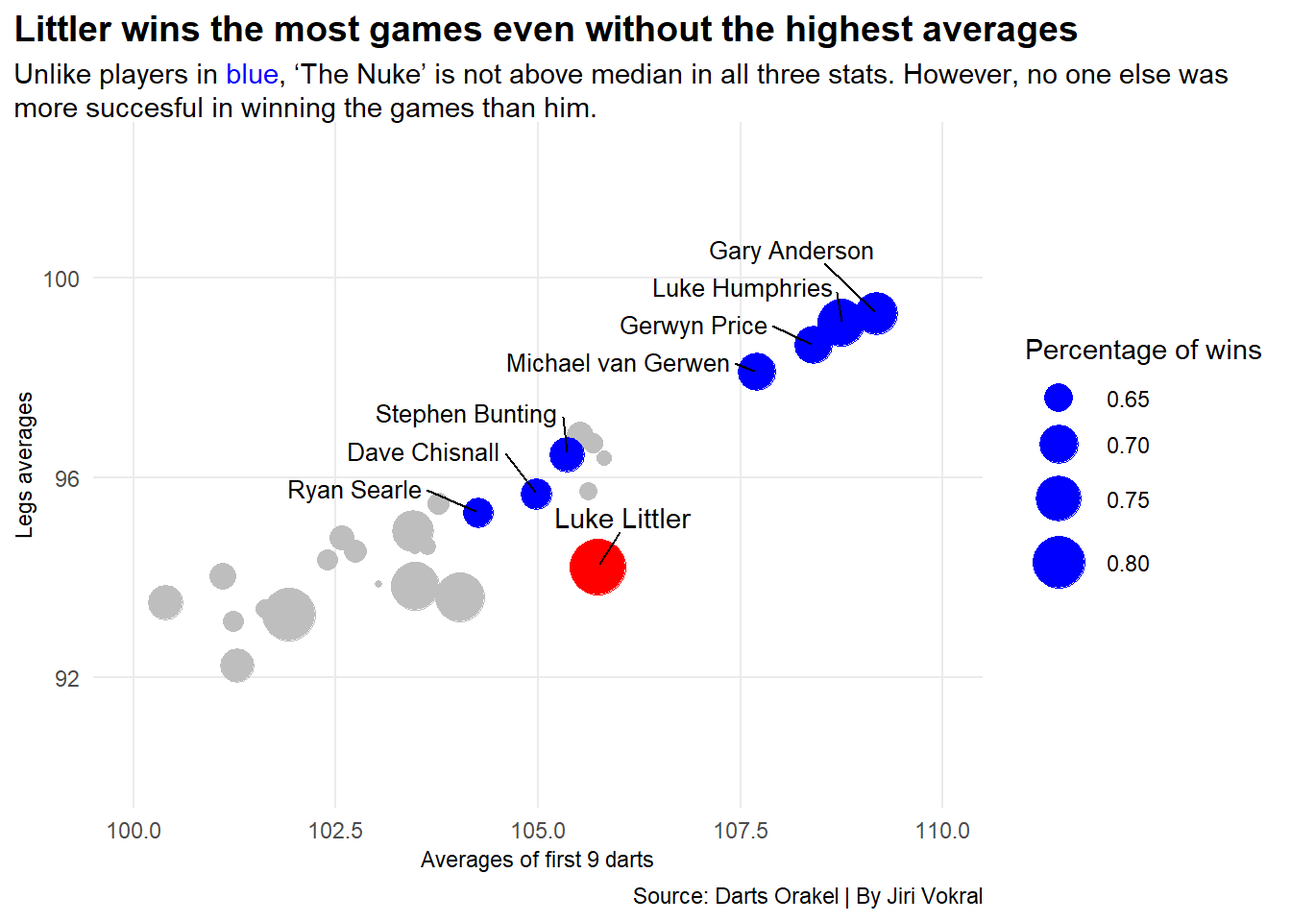
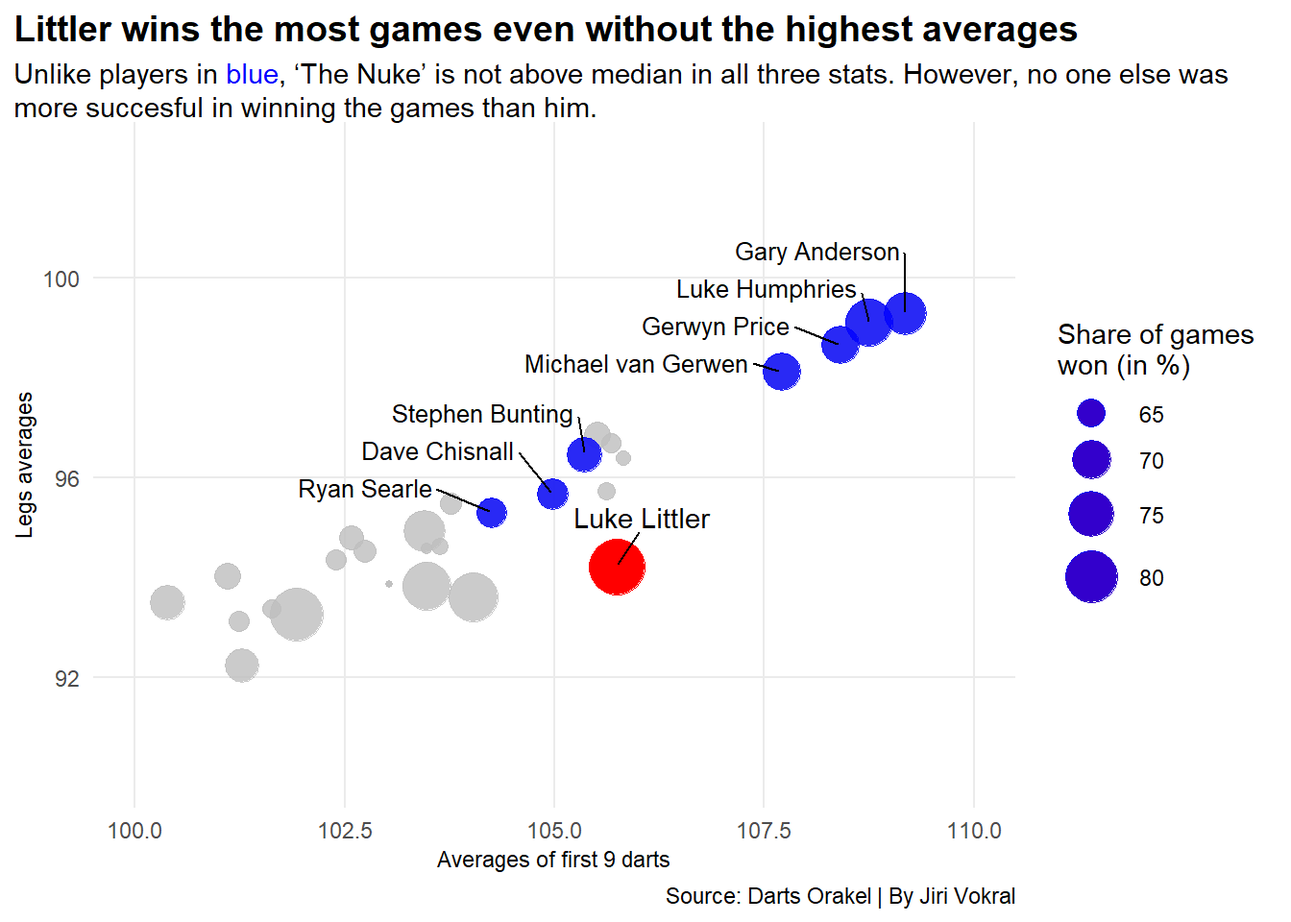
Update commit #2

diff --git a/posts/luke-littler-darts/index.html b/posts/luke-littler-darts/index.html
@@ -9,7 +9,7 @@
 <meta name="author" content="Jiri Vokral">
 <meta name="dcterms.date" content="2024-04-14">
 
-<title>Jiri Vokral’ sports data site - Luke Littler</title>
+<title>Jiri Vokral’ sports data site - Is Luke Littler the best player in the world of darts at the moment?</title>
 <style>
 code{white-space: pre-wrap;}
 span.smallcaps{font-variant: small-caps;}
@@ -149,7 +149,7 @@ pre > code.sourceCode > span > a:first-child::before { text-decoration: underlin
 <header id="title-block-header" class="quarto-title-block default page-columns page-full">
   <div class="quarto-title-banner page-columns page-full">
     <div class="quarto-title column-body">
-      <h1 class="title">Luke Littler</h1>
+      <h1 class="title">Is Luke Littler the best player in the world of darts at the moment?</h1>
                       </div>
   </div>
     
@@ -187,14 +187,7 @@ pre > code.sourceCode > span > a:first-child::before { text-decoration: underlin
 
 <p>“Triple twenty will leave him double ten. And he finishes it on double ten! Luke Littler by name, but right now arguably the biggest name in the world of darts. Littler takes the giant step into the World Championship final. He made it nineteen days shy of his 17th birthday, and tomorrow he could be the World Darts Champion!”</p>
 <p>At the turn of last year and this year, the entire darts world learned to count on a new rising star. Luke Littler made it to the World Championship final at the age of 16. He had to go through all the rounds to reach the final as he was not seeded due to his position in the world rankings.</p>
-<p>The youngster with “The Nuke” sent one opponent after another home. When he faced the legendary Raymond van Barneveld in the round of sixteen, the pundits didn’t give Littler much of a chance. But they were wrong. Littler defeated the former world number one and world champion 4:1.</p>
-<p>Brendan Dolan could also only win one set against Littler in the quarterfinals. The 16-year-old sensation made it to the semi-finals of the world’s most prestigious darts tournament. The opponent? World No.&nbsp;8 and former world champion Rob Cross. But even he couldn’t bring himself to send Littler home.</p>
-<p>The Nuke” led 4-2 in the final. He became the darling of the fans, who chanted, “You’ve got school in the morning, school in the morning!”</p>
-<p>But in the end, Luke Humpries turned the dramatic finale around and became the world champion and world No.1. But Littler’s performance earned him an invitation to Premier League Darts, a select company of the best darts players who would meet in fifteen tournaments throughout the spring.</p>
-<p>In eleven tournaments so far, he has reached the finals three times and won twice. As a result, Littler currently leads the overall standings in the highly prestigious Premier League.</p>
-<p>Is The Nuke the best player in the world right now?</p>
-<p>“No.&nbsp;No way,” Littler said when journalists asked him that question earlier this year. “You still got Luke Humphries in there, you still got Michael van Gerwen in there. I’m one of the best right now in terms of performance, but I’m not the best in the world,” he added.</p>
-<p>Let’s take a look at the data from the end of March 2023 to the end of March 2024.</p>
+<p>Truth be told, he was already good before the World Championship. And he continues to be in great form. Let’s take a look at the data from the end of March 2023 to the end of March 2024.</p>
 <div class="cell">
 <details class="code-fold">
 <summary>Code</summary>
@@ -254,7 +247,15 @@ pre > code.sourceCode > span > a:first-child::before { text-decoration: underlin
 </div>
 </div>
 <p>Out of the 112 best players in the world, Littler has the highest success rate in the legs where he throws first. He won more than 77 percent of those legs. That’s five percentage points more than world No.&nbsp;1 Humrpies or six more than three-time world champion and world No.&nbsp;2 Michael van Gerwen. On the occasions when he has gone to the dartboard second, his success rate has dropped to 52.67 percent. But that is the second-best result of all.</p>
-<p>And that’s not all. Littler also had the highest winning percentage for the year. He played a total of 398 games (by far the most of all players, the second-highest result is 279), of which he won 333. This means that he won more than 83 percent of the time.</p>
+<p>The youngster with nickname “The Nuke” sent one opponent after another home at the World Championship. When he faced the legendary Raymond van Barneveld in the round of sixteen, the pundits didn’t give Littler much of a chance. But they were wrong. Littler defeated the former world number one and world champion 4:1.</p>
+<p>Brendan Dolan could also only win one set against Littler in the quarterfinals. The 16-year-old sensation made it to the semi-finals of the world’s most prestigious darts tournament. The opponent? World No.&nbsp;8 and former world champion Rob Cross. But even he couldn’t bring himself to send Littler home.</p>
+<p>The Nuke” led 4-2 in the final. He became the darling of the fans, who chanted, “You’ve got school in the morning, school in the morning!”</p>
+<p>But in the end, Luke Humpries turned the dramatic finale around and became the world champion and world No.1. But Littler’s performance earned him an invitation to Premier League Darts, a select company of the best darts players who would meet in fifteen tournaments throughout the spring.</p>
+<p>In eleven tournaments so far, he has reached the finals three times and won twice. As a result, Littler currently leads the overall standings in the highly prestigious Premier League.</p>
+<p>Is The Nuke the best player in the world right now?</p>
+<p>“No.&nbsp;No way,” Littler said when journalists asked him that question earlier this year. “You still got Luke Humphries in there, you still got Michael van Gerwen in there. I’m one of the best right now in terms of performance, but I’m not the best in the world,” he added.</p>
+<p>Well.</p>
+<p>Littler had the highest winning percentage during whole year. He played a total of 398 games (by far the most of all players, the second-highest result is 339), of which he won 333. This means that he won more than 83 percent of the time.</p>
 <div class="cell">
 <details class="code-fold">
 <summary>Code</summary>
@@ -262,12 +263,12 @@ pre > code.sourceCode > span > a:first-child::before { text-decoration: underlin
 <span id="cb2-2"><a href="#cb2-2" aria-hidden="true" tabindex="-1"></a></span>
 <span id="cb2-3"><a href="#cb2-3" aria-hidden="true" tabindex="-1"></a>new_bubble <span class="ot">&lt;-</span> bubble [<span class="sc">-</span><span class="dv">56</span>,]<span class="sc">|&gt;</span></span>
 <span id="cb2-4"><a href="#cb2-4" aria-hidden="true" tabindex="-1"></a>  <span class="fu">mutate</span>(</span>
-<span id="cb2-5"><a href="#cb2-5" aria-hidden="true" tabindex="-1"></a>    <span class="at">Win_Pct =</span> Won<span class="sc">/</span>Played</span>
+<span id="cb2-5"><a href="#cb2-5" aria-hidden="true" tabindex="-1"></a>    <span class="at">Win_Pct =</span> (Won<span class="sc">/</span>Played)<span class="sc">*</span><span class="dv">100</span></span>
 <span id="cb2-6"><a href="#cb2-6" aria-hidden="true" tabindex="-1"></a>  ) <span class="sc">|&gt;</span></span>
 <span id="cb2-7"><a href="#cb2-7" aria-hidden="true" tabindex="-1"></a>  <span class="fu">filter</span>(</span>
 <span id="cb2-8"><a href="#cb2-8" aria-hidden="true" tabindex="-1"></a>    AVG <span class="sc">&gt;</span> <span class="dv">92</span>,</span>
-<span id="cb2-9"><a href="#cb2-9" aria-hidden="true" tabindex="-1"></a>    Win_Pct <span class="sc">&gt;</span> <span class="fl">0.60</span></span>
-<span id="cb2-10"><a href="#cb2-10" aria-hidden="true" tabindex="-1"></a>  )</span>
+<span id="cb2-9"><a href="#cb2-9" aria-hidden="true" tabindex="-1"></a>    Win_Pct <span class="sc">&gt;</span> <span class="dv">60</span></span>
+<span id="cb2-10"><a href="#cb2-10" aria-hidden="true" tabindex="-1"></a>  ) </span>
 <span id="cb2-11"><a href="#cb2-11" aria-hidden="true" tabindex="-1"></a></span>
 <span id="cb2-12"><a href="#cb2-12" aria-hidden="true" tabindex="-1"></a>luke_littler <span class="ot">&lt;-</span> new_bubble <span class="sc">|&gt;</span></span>
 <span id="cb2-13"><a href="#cb2-13" aria-hidden="true" tabindex="-1"></a>  <span class="fu">filter</span>(</span>
@@ -284,47 +285,49 @@ pre > code.sourceCode > span > a:first-child::before { text-decoration: underlin
 <span id="cb2-24"><a href="#cb2-24" aria-hidden="true" tabindex="-1"></a>  <span class="fu">filter</span>(</span>
 <span id="cb2-25"><a href="#cb2-25" aria-hidden="true" tabindex="-1"></a>    AVG <span class="sc">&gt;</span> <span class="fl">94.695</span> <span class="sc">&amp;</span></span>
 <span id="cb2-26"><a href="#cb2-26" aria-hidden="true" tabindex="-1"></a>      First_9_averages <span class="sc">&gt;</span> <span class="fl">103.7</span> <span class="sc">&amp;</span></span>
-<span id="cb2-27"><a href="#cb2-27" aria-hidden="true" tabindex="-1"></a>      Win_Pct <span class="sc">&gt;</span> <span class="fl">0.6413996</span>   </span>
+<span id="cb2-27"><a href="#cb2-27" aria-hidden="true" tabindex="-1"></a>      Win_Pct <span class="sc">&gt;</span> <span class="fl">64.22764</span>    </span>
 <span id="cb2-28"><a href="#cb2-28" aria-hidden="true" tabindex="-1"></a>  )</span>
 <span id="cb2-29"><a href="#cb2-29" aria-hidden="true" tabindex="-1"></a></span>
 <span id="cb2-30"><a href="#cb2-30" aria-hidden="true" tabindex="-1"></a><span class="fu">ggplot</span>() <span class="sc">+</span> </span>
 <span id="cb2-31"><a href="#cb2-31" aria-hidden="true" tabindex="-1"></a>  <span class="fu">geom_point</span>(</span>
 <span id="cb2-32"><a href="#cb2-32" aria-hidden="true" tabindex="-1"></a>    <span class="at">data=</span>new_bubble, </span>
 <span id="cb2-33"><a href="#cb2-33" aria-hidden="true" tabindex="-1"></a>    <span class="fu">aes</span>(<span class="at">x=</span>First_9_averages, <span class="at">y=</span>AVG, <span class="at">size=</span> Win_Pct),</span>
-<span id="cb2-34"><a href="#cb2-34" aria-hidden="true" tabindex="-1"></a>    <span class="at">color =</span> <span class="st">"grey"</span></span>
-<span id="cb2-35"><a href="#cb2-35" aria-hidden="true" tabindex="-1"></a>    ) <span class="sc">+</span></span>
-<span id="cb2-36"><a href="#cb2-36" aria-hidden="true" tabindex="-1"></a>  <span class="fu">geom_point</span>(</span>
-<span id="cb2-37"><a href="#cb2-37" aria-hidden="true" tabindex="-1"></a>    <span class="at">data=</span>luke_littler, </span>
-<span id="cb2-38"><a href="#cb2-38" aria-hidden="true" tabindex="-1"></a>    <span class="fu">aes</span>(<span class="at">x=</span>First_9_averages, <span class="at">y=</span>AVG, <span class="at">size=</span> Win_Pct),</span>
-<span id="cb2-39"><a href="#cb2-39" aria-hidden="true" tabindex="-1"></a>    <span class="at">color =</span> <span class="st">"red"</span></span>
-<span id="cb2-40"><a href="#cb2-40" aria-hidden="true" tabindex="-1"></a>    ) <span class="sc">+</span></span>
-<span id="cb2-41"><a href="#cb2-41" aria-hidden="true" tabindex="-1"></a>  <span class="fu">geom_point</span>(</span>
-<span id="cb2-42"><a href="#cb2-42" aria-hidden="true" tabindex="-1"></a>    <span class="at">data=</span>bubble_top2, </span>
-<span id="cb2-43"><a href="#cb2-43" aria-hidden="true" tabindex="-1"></a>    <span class="fu">aes</span>(<span class="at">x=</span>First_9_averages, <span class="at">y=</span>AVG, <span class="at">size=</span> Win_Pct),</span>
-<span id="cb2-44"><a href="#cb2-44" aria-hidden="true" tabindex="-1"></a>    <span class="at">color =</span> <span class="st">"blue"</span></span>
-<span id="cb2-45"><a href="#cb2-45" aria-hidden="true" tabindex="-1"></a>    ) <span class="sc">+</span></span>
-<span id="cb2-46"><a href="#cb2-46" aria-hidden="true" tabindex="-1"></a>  <span class="fu">scale_x_continuous</span>(<span class="at">limits =</span> <span class="fu">c</span>(<span class="dv">100</span>,<span class="dv">110</span>)) <span class="sc">+</span></span>
-<span id="cb2-47"><a href="#cb2-47" aria-hidden="true" tabindex="-1"></a>  <span class="fu">scale_y_continuous</span>(<span class="at">limits =</span><span class="fu">c</span>(<span class="dv">90</span>,<span class="fl">102.5</span>)) <span class="sc">+</span></span>
-<span id="cb2-48"><a href="#cb2-48" aria-hidden="true" tabindex="-1"></a>  <span class="fu">scale_size_continuous</span>(<span class="at">range =</span> <span class="fu">c</span>(<span class="dv">1</span>,<span class="dv">10</span>), <span class="at">name =</span> <span class="st">"Percentage of wins"</span>) <span class="sc">+</span></span>
-<span id="cb2-49"><a href="#cb2-49" aria-hidden="true" tabindex="-1"></a>  <span class="fu">geom_text_repel</span>(</span>
-<span id="cb2-50"><a href="#cb2-50" aria-hidden="true" tabindex="-1"></a>    <span class="at">data=</span>luke_littler, </span>
-<span id="cb2-51"><a href="#cb2-51" aria-hidden="true" tabindex="-1"></a>    <span class="fu">aes</span>(<span class="at">x=</span>First_9_averages, <span class="at">y=</span>AVG, <span class="at">label=</span>Player), <span class="at">nudge_y =</span> <span class="dv">1</span>, <span class="at">nudge_x =</span> .<span class="dv">3</span>) <span class="sc">+</span></span>
-<span id="cb2-52"><a href="#cb2-52" aria-hidden="true" tabindex="-1"></a>  <span class="fu">geom_text_repel</span>(</span>
-<span id="cb2-53"><a href="#cb2-53" aria-hidden="true" tabindex="-1"></a>    <span class="at">data=</span>bubble_top2, </span>
-<span id="cb2-54"><a href="#cb2-54" aria-hidden="true" tabindex="-1"></a>    <span class="fu">aes</span>(<span class="at">x=</span>First_9_averages, <span class="at">y=</span>AVG, <span class="at">label=</span>Player), <span class="at">nudge_y =</span> .<span class="dv">72</span>, <span class="at">nudge_x =</span> <span class="sc">-</span><span class="fl">1.4</span>, <span class="at">size=</span><span class="fl">3.4</span>) <span class="sc">+</span></span>
-<span id="cb2-55"><a href="#cb2-55" aria-hidden="true" tabindex="-1"></a>  <span class="fu">theme_minimal</span>() <span class="sc">+</span></span>
-<span id="cb2-56"><a href="#cb2-56" aria-hidden="true" tabindex="-1"></a>   <span class="fu">labs</span>(</span>
-<span id="cb2-57"><a href="#cb2-57" aria-hidden="true" tabindex="-1"></a>    <span class="at">title=</span><span class="st">"Littler wins the most games even without the highest averages"</span>, </span>
-<span id="cb2-58"><a href="#cb2-58" aria-hidden="true" tabindex="-1"></a>    <span class="at">subtitle =</span> <span class="st">"Unlike players in &lt;span style = 'color:blue;'&gt;blue&lt;/span&gt;, 'The Nuke' is not above median in all three stats. However, no one else was more succesful in winning the games than him."</span>,</span>
-<span id="cb2-59"><a href="#cb2-59" aria-hidden="true" tabindex="-1"></a>    <span class="at">y=</span> <span class="st">"Legs averages"</span>, <span class="at">x =</span> <span class="st">"Averages of first 9 darts"</span>, <span class="at">caption=</span><span class="st">"Source: Darts Orakel | By Jiri Vokral"</span></span>
-<span id="cb2-60"><a href="#cb2-60" aria-hidden="true" tabindex="-1"></a>  ) <span class="sc">+</span> </span>
-<span id="cb2-61"><a href="#cb2-61" aria-hidden="true" tabindex="-1"></a>  <span class="fu">theme</span>(</span>
-<span id="cb2-62"><a href="#cb2-62" aria-hidden="true" tabindex="-1"></a>    <span class="at">plot.title =</span> <span class="fu">element_text</span>(<span class="at">size =</span> <span class="dv">14</span>, <span class="at">face =</span> <span class="st">"bold"</span>),</span>
-<span id="cb2-63"><a href="#cb2-63" aria-hidden="true" tabindex="-1"></a>    <span class="at">axis.title =</span> <span class="fu">element_text</span>(<span class="at">size =</span> <span class="fl">8.5</span>), </span>
-<span id="cb2-64"><a href="#cb2-64" aria-hidden="true" tabindex="-1"></a>    <span class="at">plot.subtitle =</span> <span class="fu">element_textbox_simple</span>(<span class="at">size=</span><span class="dv">11</span>), </span>
-<span id="cb2-65"><a href="#cb2-65" aria-hidden="true" tabindex="-1"></a>    <span class="at">panel.grid.minor =</span> <span class="fu">element_blank</span>(),</span>
-<span id="cb2-66"><a href="#cb2-66" aria-hidden="true" tabindex="-1"></a>    <span class="at">plot.title.position =</span> <span class="st">"plot"</span></span>
-<span id="cb2-67"><a href="#cb2-67" aria-hidden="true" tabindex="-1"></a>  )</span></code><button title="Copy to Clipboard" class="code-copy-button"><i class="bi"></i></button></pre></div>
+<span id="cb2-34"><a href="#cb2-34" aria-hidden="true" tabindex="-1"></a>    <span class="at">color =</span> <span class="st">"grey"</span>,</span>
+<span id="cb2-35"><a href="#cb2-35" aria-hidden="true" tabindex="-1"></a>    <span class="at">alpha=</span>.<span class="dv">8</span></span>
+<span id="cb2-36"><a href="#cb2-36" aria-hidden="true" tabindex="-1"></a>    ) <span class="sc">+</span></span>
+<span id="cb2-37"><a href="#cb2-37" aria-hidden="true" tabindex="-1"></a>  <span class="fu">geom_point</span>(</span>
+<span id="cb2-38"><a href="#cb2-38" aria-hidden="true" tabindex="-1"></a>    <span class="at">data=</span>luke_littler, </span>
+<span id="cb2-39"><a href="#cb2-39" aria-hidden="true" tabindex="-1"></a>    <span class="fu">aes</span>(<span class="at">x=</span>First_9_averages, <span class="at">y=</span>AVG, <span class="at">size=</span> Win_Pct),</span>
+<span id="cb2-40"><a href="#cb2-40" aria-hidden="true" tabindex="-1"></a>    <span class="at">color =</span> <span class="st">"red"</span></span>
+<span id="cb2-41"><a href="#cb2-41" aria-hidden="true" tabindex="-1"></a>    ) <span class="sc">+</span></span>
+<span id="cb2-42"><a href="#cb2-42" aria-hidden="true" tabindex="-1"></a>  <span class="fu">geom_point</span>(</span>
+<span id="cb2-43"><a href="#cb2-43" aria-hidden="true" tabindex="-1"></a>    <span class="at">data=</span>bubble_top2, </span>
+<span id="cb2-44"><a href="#cb2-44" aria-hidden="true" tabindex="-1"></a>    <span class="fu">aes</span>(<span class="at">x=</span>First_9_averages, <span class="at">y=</span>AVG, <span class="at">size=</span> Win_Pct),</span>
+<span id="cb2-45"><a href="#cb2-45" aria-hidden="true" tabindex="-1"></a>    <span class="at">color =</span> <span class="st">"blue"</span>,</span>
+<span id="cb2-46"><a href="#cb2-46" aria-hidden="true" tabindex="-1"></a>    <span class="at">alpha=</span>.<span class="dv">8</span></span>
+<span id="cb2-47"><a href="#cb2-47" aria-hidden="true" tabindex="-1"></a>    ) <span class="sc">+</span></span>
+<span id="cb2-48"><a href="#cb2-48" aria-hidden="true" tabindex="-1"></a>  <span class="fu">scale_x_continuous</span>(<span class="at">limits =</span> <span class="fu">c</span>(<span class="dv">100</span>,<span class="dv">110</span>)) <span class="sc">+</span></span>
+<span id="cb2-49"><a href="#cb2-49" aria-hidden="true" tabindex="-1"></a>  <span class="fu">scale_y_continuous</span>(<span class="at">limits =</span><span class="fu">c</span>(<span class="dv">90</span>,<span class="fl">102.5</span>)) <span class="sc">+</span></span>
+<span id="cb2-50"><a href="#cb2-50" aria-hidden="true" tabindex="-1"></a>  <span class="fu">scale_size_continuous</span>(<span class="at">range =</span> <span class="fu">c</span>(<span class="dv">1</span>,<span class="dv">10</span>), <span class="at">name =</span> <span class="st">"Share of games </span><span class="sc">\n</span><span class="st">won (in %)"</span>) <span class="sc">+</span></span>
+<span id="cb2-51"><a href="#cb2-51" aria-hidden="true" tabindex="-1"></a>  <span class="fu">geom_text_repel</span>(</span>
+<span id="cb2-52"><a href="#cb2-52" aria-hidden="true" tabindex="-1"></a>    <span class="at">data=</span>luke_littler, </span>
+<span id="cb2-53"><a href="#cb2-53" aria-hidden="true" tabindex="-1"></a>    <span class="fu">aes</span>(<span class="at">x=</span>First_9_averages, <span class="at">y=</span>AVG, <span class="at">label=</span>Player), <span class="at">nudge_y =</span> <span class="dv">1</span>, <span class="at">nudge_x =</span> .<span class="dv">3</span>) <span class="sc">+</span></span>
+<span id="cb2-54"><a href="#cb2-54" aria-hidden="true" tabindex="-1"></a>  <span class="fu">geom_text_repel</span>(</span>
+<span id="cb2-55"><a href="#cb2-55" aria-hidden="true" tabindex="-1"></a>    <span class="at">data=</span>bubble_top2, </span>
+<span id="cb2-56"><a href="#cb2-56" aria-hidden="true" tabindex="-1"></a>    <span class="fu">aes</span>(<span class="at">x=</span>First_9_averages, <span class="at">y=</span>AVG, <span class="at">label=</span>Player), <span class="at">nudge_y =</span> .<span class="dv">72</span>, <span class="at">nudge_x =</span> <span class="sc">-</span><span class="fl">1.4</span>, <span class="at">size=</span><span class="fl">3.4</span>) <span class="sc">+</span></span>
+<span id="cb2-57"><a href="#cb2-57" aria-hidden="true" tabindex="-1"></a>  <span class="fu">theme_minimal</span>() <span class="sc">+</span></span>
+<span id="cb2-58"><a href="#cb2-58" aria-hidden="true" tabindex="-1"></a>   <span class="fu">labs</span>(</span>
+<span id="cb2-59"><a href="#cb2-59" aria-hidden="true" tabindex="-1"></a>    <span class="at">title=</span><span class="st">"Littler wins the most games even without the highest averages"</span>, </span>
+<span id="cb2-60"><a href="#cb2-60" aria-hidden="true" tabindex="-1"></a>    <span class="at">subtitle =</span> <span class="st">"Unlike players in &lt;span style = 'color:blue;'&gt;blue&lt;/span&gt;, 'The Nuke' is not above median in all three stats. However, no one else was more succesful in winning the games than him."</span>,</span>
+<span id="cb2-61"><a href="#cb2-61" aria-hidden="true" tabindex="-1"></a>    <span class="at">y=</span> <span class="st">"Legs averages"</span>, <span class="at">x =</span> <span class="st">"Averages of first 9 darts"</span>, <span class="at">caption=</span><span class="st">"Source: Darts Orakel | By Jiri Vokral"</span></span>
+<span id="cb2-62"><a href="#cb2-62" aria-hidden="true" tabindex="-1"></a>  ) <span class="sc">+</span> </span>
+<span id="cb2-63"><a href="#cb2-63" aria-hidden="true" tabindex="-1"></a>  <span class="fu">theme</span>(</span>
+<span id="cb2-64"><a href="#cb2-64" aria-hidden="true" tabindex="-1"></a>    <span class="at">plot.title =</span> <span class="fu">element_text</span>(<span class="at">size =</span> <span class="dv">14</span>, <span class="at">face =</span> <span class="st">"bold"</span>),</span>
+<span id="cb2-65"><a href="#cb2-65" aria-hidden="true" tabindex="-1"></a>    <span class="at">axis.title =</span> <span class="fu">element_text</span>(<span class="at">size =</span> <span class="fl">8.5</span>), </span>
+<span id="cb2-66"><a href="#cb2-66" aria-hidden="true" tabindex="-1"></a>    <span class="at">plot.subtitle =</span> <span class="fu">element_textbox_simple</span>(<span class="at">size=</span><span class="dv">11</span>), </span>
+<span id="cb2-67"><a href="#cb2-67" aria-hidden="true" tabindex="-1"></a>    <span class="at">panel.grid.minor =</span> <span class="fu">element_blank</span>(),</span>
+<span id="cb2-68"><a href="#cb2-68" aria-hidden="true" tabindex="-1"></a>    <span class="at">plot.title.position =</span> <span class="st">"plot"</span></span>
+<span id="cb2-69"><a href="#cb2-69" aria-hidden="true" tabindex="-1"></a>  )</span></code><button title="Copy to Clipboard" class="code-copy-button"><i class="bi"></i></button></pre></div>
 </details>
 <div class="cell-output-display">
 <div>
@@ -385,7 +388,7 @@ pre > code.sourceCode > span > a:first-child::before { text-decoration: underlin
 <span id="cb3-44"><a href="#cb3-44" aria-hidden="true" tabindex="-1"></a>   <span class="fu">labs</span>(</span>
 <span id="cb3-45"><a href="#cb3-45" aria-hidden="true" tabindex="-1"></a>    <span class="at">title=</span><span class="st">"World Champion Humpries and legendary Anderson consistently scored the highest"</span>, </span>
 <span id="cb3-46"><a href="#cb3-46" aria-hidden="true" tabindex="-1"></a>    <span class="at">subtitle =</span> <span class="st">"Littler scored above median, but could not get close to the best ones in both number of matches with 100+ average and scored maximums. Black lines indicate the median."</span>,</span>
-<span id="cb3-47"><a href="#cb3-47" aria-hidden="true" tabindex="-1"></a>    <span class="at">y=</span> <span class="st">"Percentage of matches with 100+ average"</span>, <span class="at">x =</span> <span class="st">"Number 180's made per match"</span>, <span class="at">caption=</span><span class="st">"Source: Darts Orakel | By Jiri Vokral"</span></span>
+<span id="cb3-47"><a href="#cb3-47" aria-hidden="true" tabindex="-1"></a>    <span class="at">y=</span> <span class="st">"Share of matches with 100+ average (in %)"</span>, <span class="at">x =</span> <span class="st">"Number 180's made per match"</span>, <span class="at">caption=</span><span class="st">"Source: Darts Orakel | By Jiri Vokral"</span></span>
 <span id="cb3-48"><a href="#cb3-48" aria-hidden="true" tabindex="-1"></a>  ) <span class="sc">+</span> </span>
 <span id="cb3-49"><a href="#cb3-49" aria-hidden="true" tabindex="-1"></a>  <span class="fu">theme</span>(</span>
 <span id="cb3-50"><a href="#cb3-50" aria-hidden="true" tabindex="-1"></a>    <span class="at">plot.title =</span> <span class="fu">element_text</span>(<span class="at">size =</span> <span class="dv">13</span>, <span class="at">face =</span> <span class="st">"bold"</span>),</span>

diff --git a/index.html b/index.html
@@ -205,7 +205,7 @@ window.Quarto = {
 
 <div class="quarto-listing quarto-listing-container-default" id="listing-listing">
 <div class="list quarto-listing-default">
-<div class="quarto-post image-right" data-index="0" data-categories="" data-listing-date-sort="1713070800000" data-listing-file-modified-sort="1712798775047" data-listing-date-modified-sort="NaN" data-listing-reading-time-sort="11" data-listing-word-count-sort="2040">
+<div class="quarto-post image-right" data-index="0" data-categories="" data-listing-date-sort="1713070800000" data-listing-file-modified-sort="1712862372080" data-listing-date-modified-sort="NaN" data-listing-reading-time-sort="11" data-listing-word-count-sort="2073">
 <div class="thumbnail">
 <p><a href="./posts/luke-littler-darts/index.html" class="no-external"></a></p><a href="./posts/luke-littler-darts/index.html" class="no-external">
 <p><img src="./posts/luke-littler-darts/image.png" class="thumbnail-image"></p>
@@ -213,7 +213,7 @@ window.Quarto = {
 </div>
 <div class="body">
 <h3 class="no-anchor listing-title">
-<a href="./posts/luke-littler-darts/index.html" class="no-external">Luke Littler</a>
+<a href="./posts/luke-littler-darts/index.html" class="no-external">Is Luke Littler the best player in the world of darts at the moment?</a>
 </h3>
 <div class="listing-subtitle">
 <a href="./posts/luke-littler-darts/index.html" class="no-external"></a>
